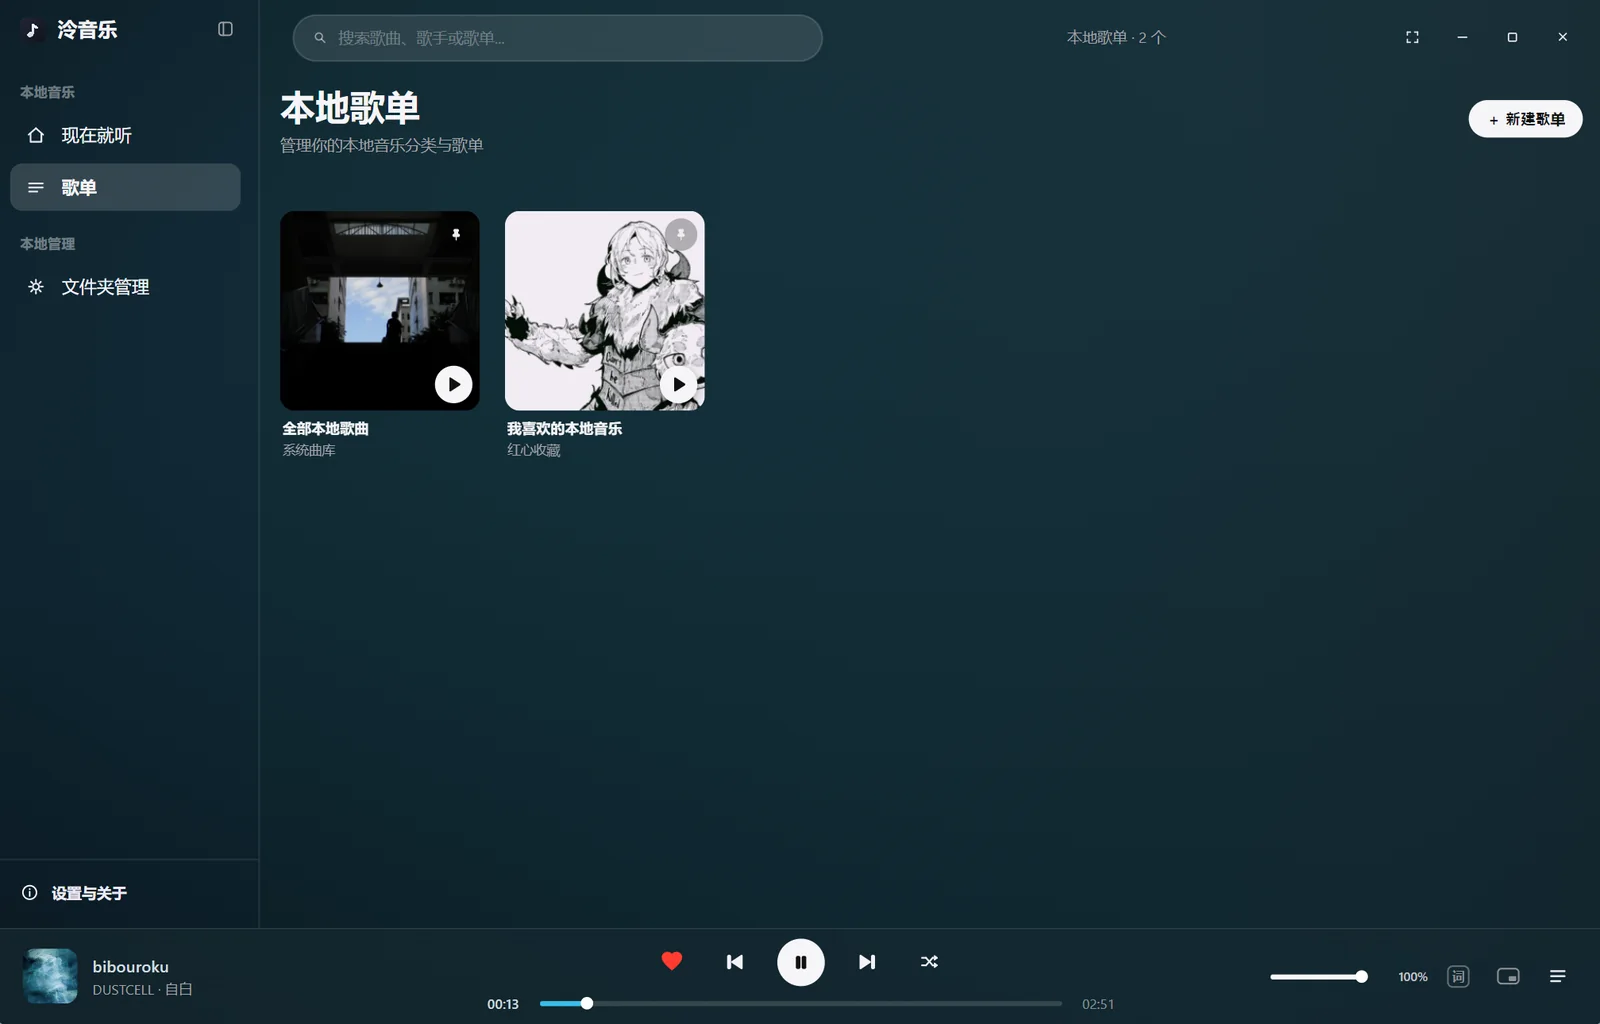
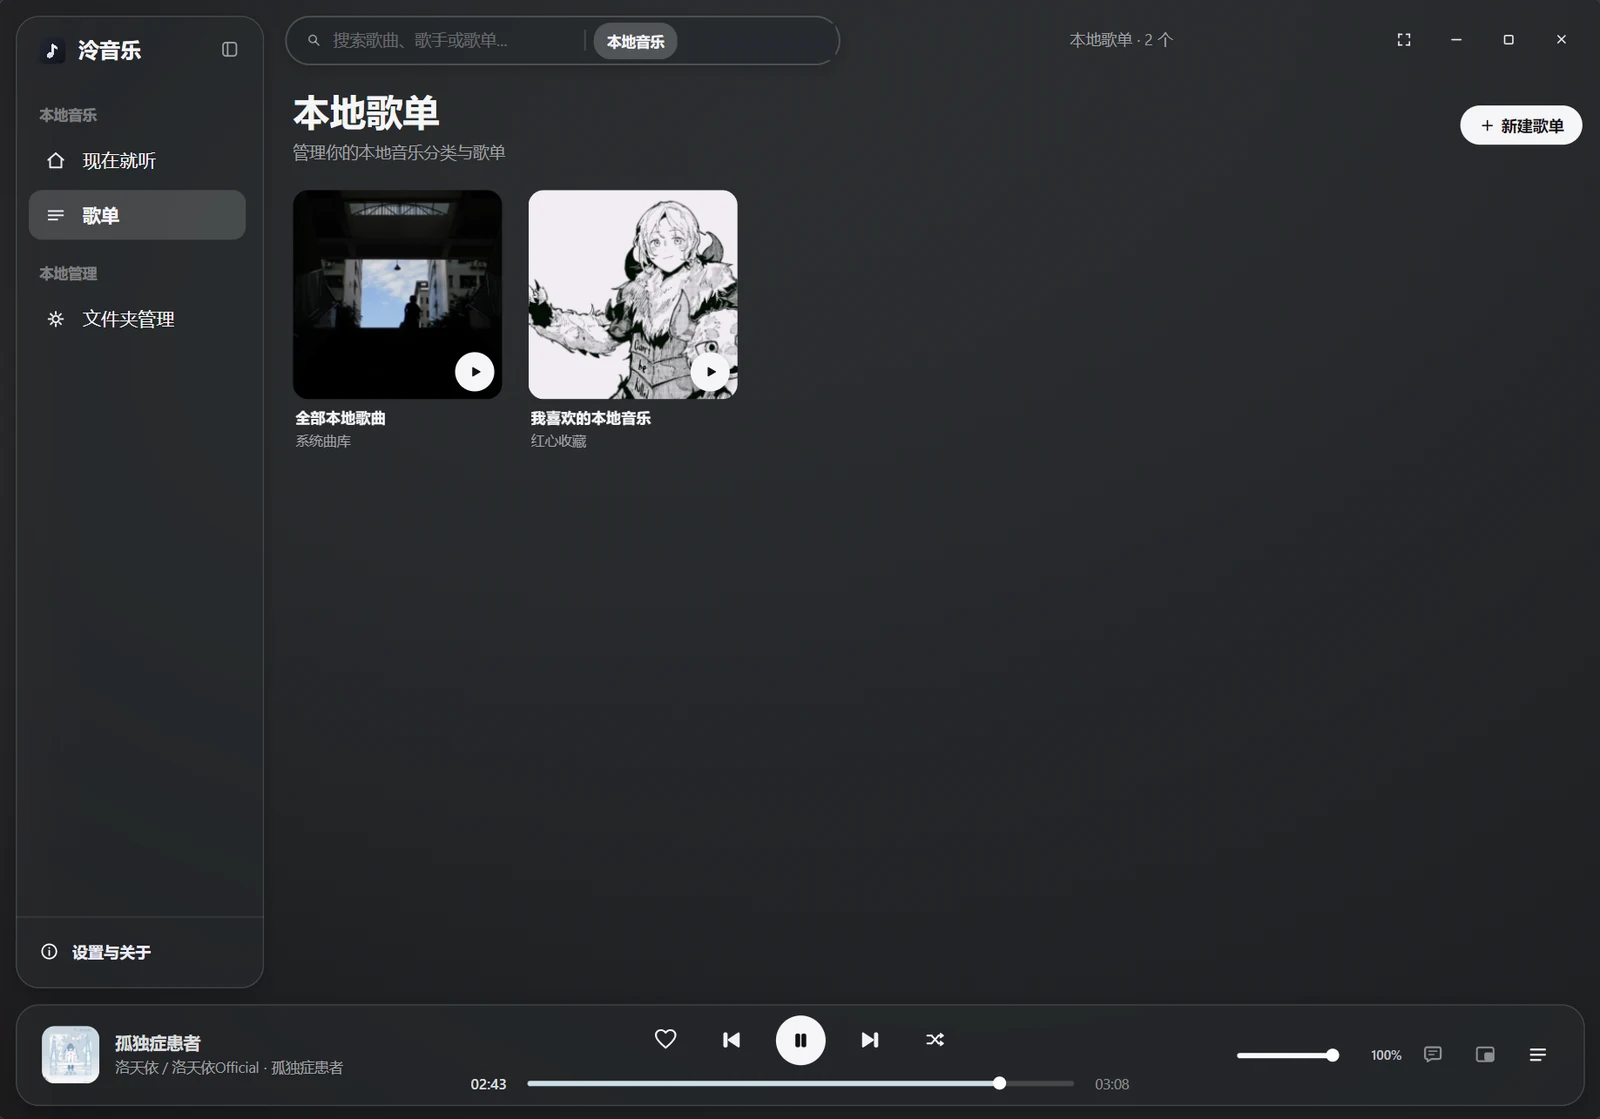
style(site): 桌面端截图更新为 2.0.1 新 UI，图宽高比改为 1600×1119

diff --git a/index.html b/index.html
@@ -293,9 +293,9 @@ footer .disc{opacity:.7;margin-top:8px}
     <button class="tab" role="tab" aria-selected="false" data-cap="像素封面">像素封面</button>
   </div>
   <div class="stage">
-    <img class="on" src="img/desktop-rounded.webp" width="1600" height="1024" alt="泠音乐桌面端播放页：圆角封面与歌词">
-    <img src="img/desktop-vinyl.webp" width="1600" height="1024" loading="lazy" alt="泠音乐桌面端播放页：黑胶唱片封面">
-    <img src="img/desktop-pixel.webp" width="1600" height="1024" loading="lazy" alt="泠音乐桌面端播放页：像素封面、逐字歌词与注音翻译">
+    <img class="on" src="img/desktop-rounded.webp" width="1600" height="1119" alt="泠音乐桌面端播放页：圆角封面与歌词">
+    <img src="img/desktop-vinyl.webp" width="1600" height="1119" loading="lazy" alt="泠音乐桌面端播放页：黑胶唱片封面">
+    <img src="img/desktop-pixel.webp" width="1600" height="1119" loading="lazy" alt="泠音乐桌面端播放页：像素封面、逐字歌词与注音翻译">
   </div>
   <p class="caption">圆角封面 · 歌词逐句聚焦，非当前句自动虚化</p>
 </section>
@@ -310,9 +310,9 @@ footer .disc{opacity:.7;margin-top:8px}
     <button class="tab" role="tab" aria-selected="false" data-cap="本地歌单管理">本地歌单</button>
   </div>
   <div class="stage">
-    <img class="on" src="img/desktop-list-island.webp" width="1600" height="1024" loading="lazy" alt="泠音乐桌面端歌曲列表：浮岛主题">
-    <img src="img/desktop-list-flat.webp" width="1600" height="1024" loading="lazy" alt="泠音乐桌面端歌曲列表：扁平化主题">
-    <img src="img/desktop-local.webp" width="1600" height="1024" loading="lazy" alt="泠音乐桌面端本地歌单">
+    <img class="on" src="img/desktop-list-island.webp" width="1600" height="1119" loading="lazy" alt="泠音乐桌面端歌曲列表：浮岛主题">
+    <img src="img/desktop-list-flat.webp" width="1600" height="1119" loading="lazy" alt="泠音乐桌面端歌曲列表：扁平化主题">
+    <img src="img/desktop-local.webp" width="1600" height="1119" loading="lazy" alt="泠音乐桌面端本地歌单">
   </div>
   <p class="caption">浮岛主题 · 侧栏、搜索与播放条悬浮在背景之上</p>
 </section>
